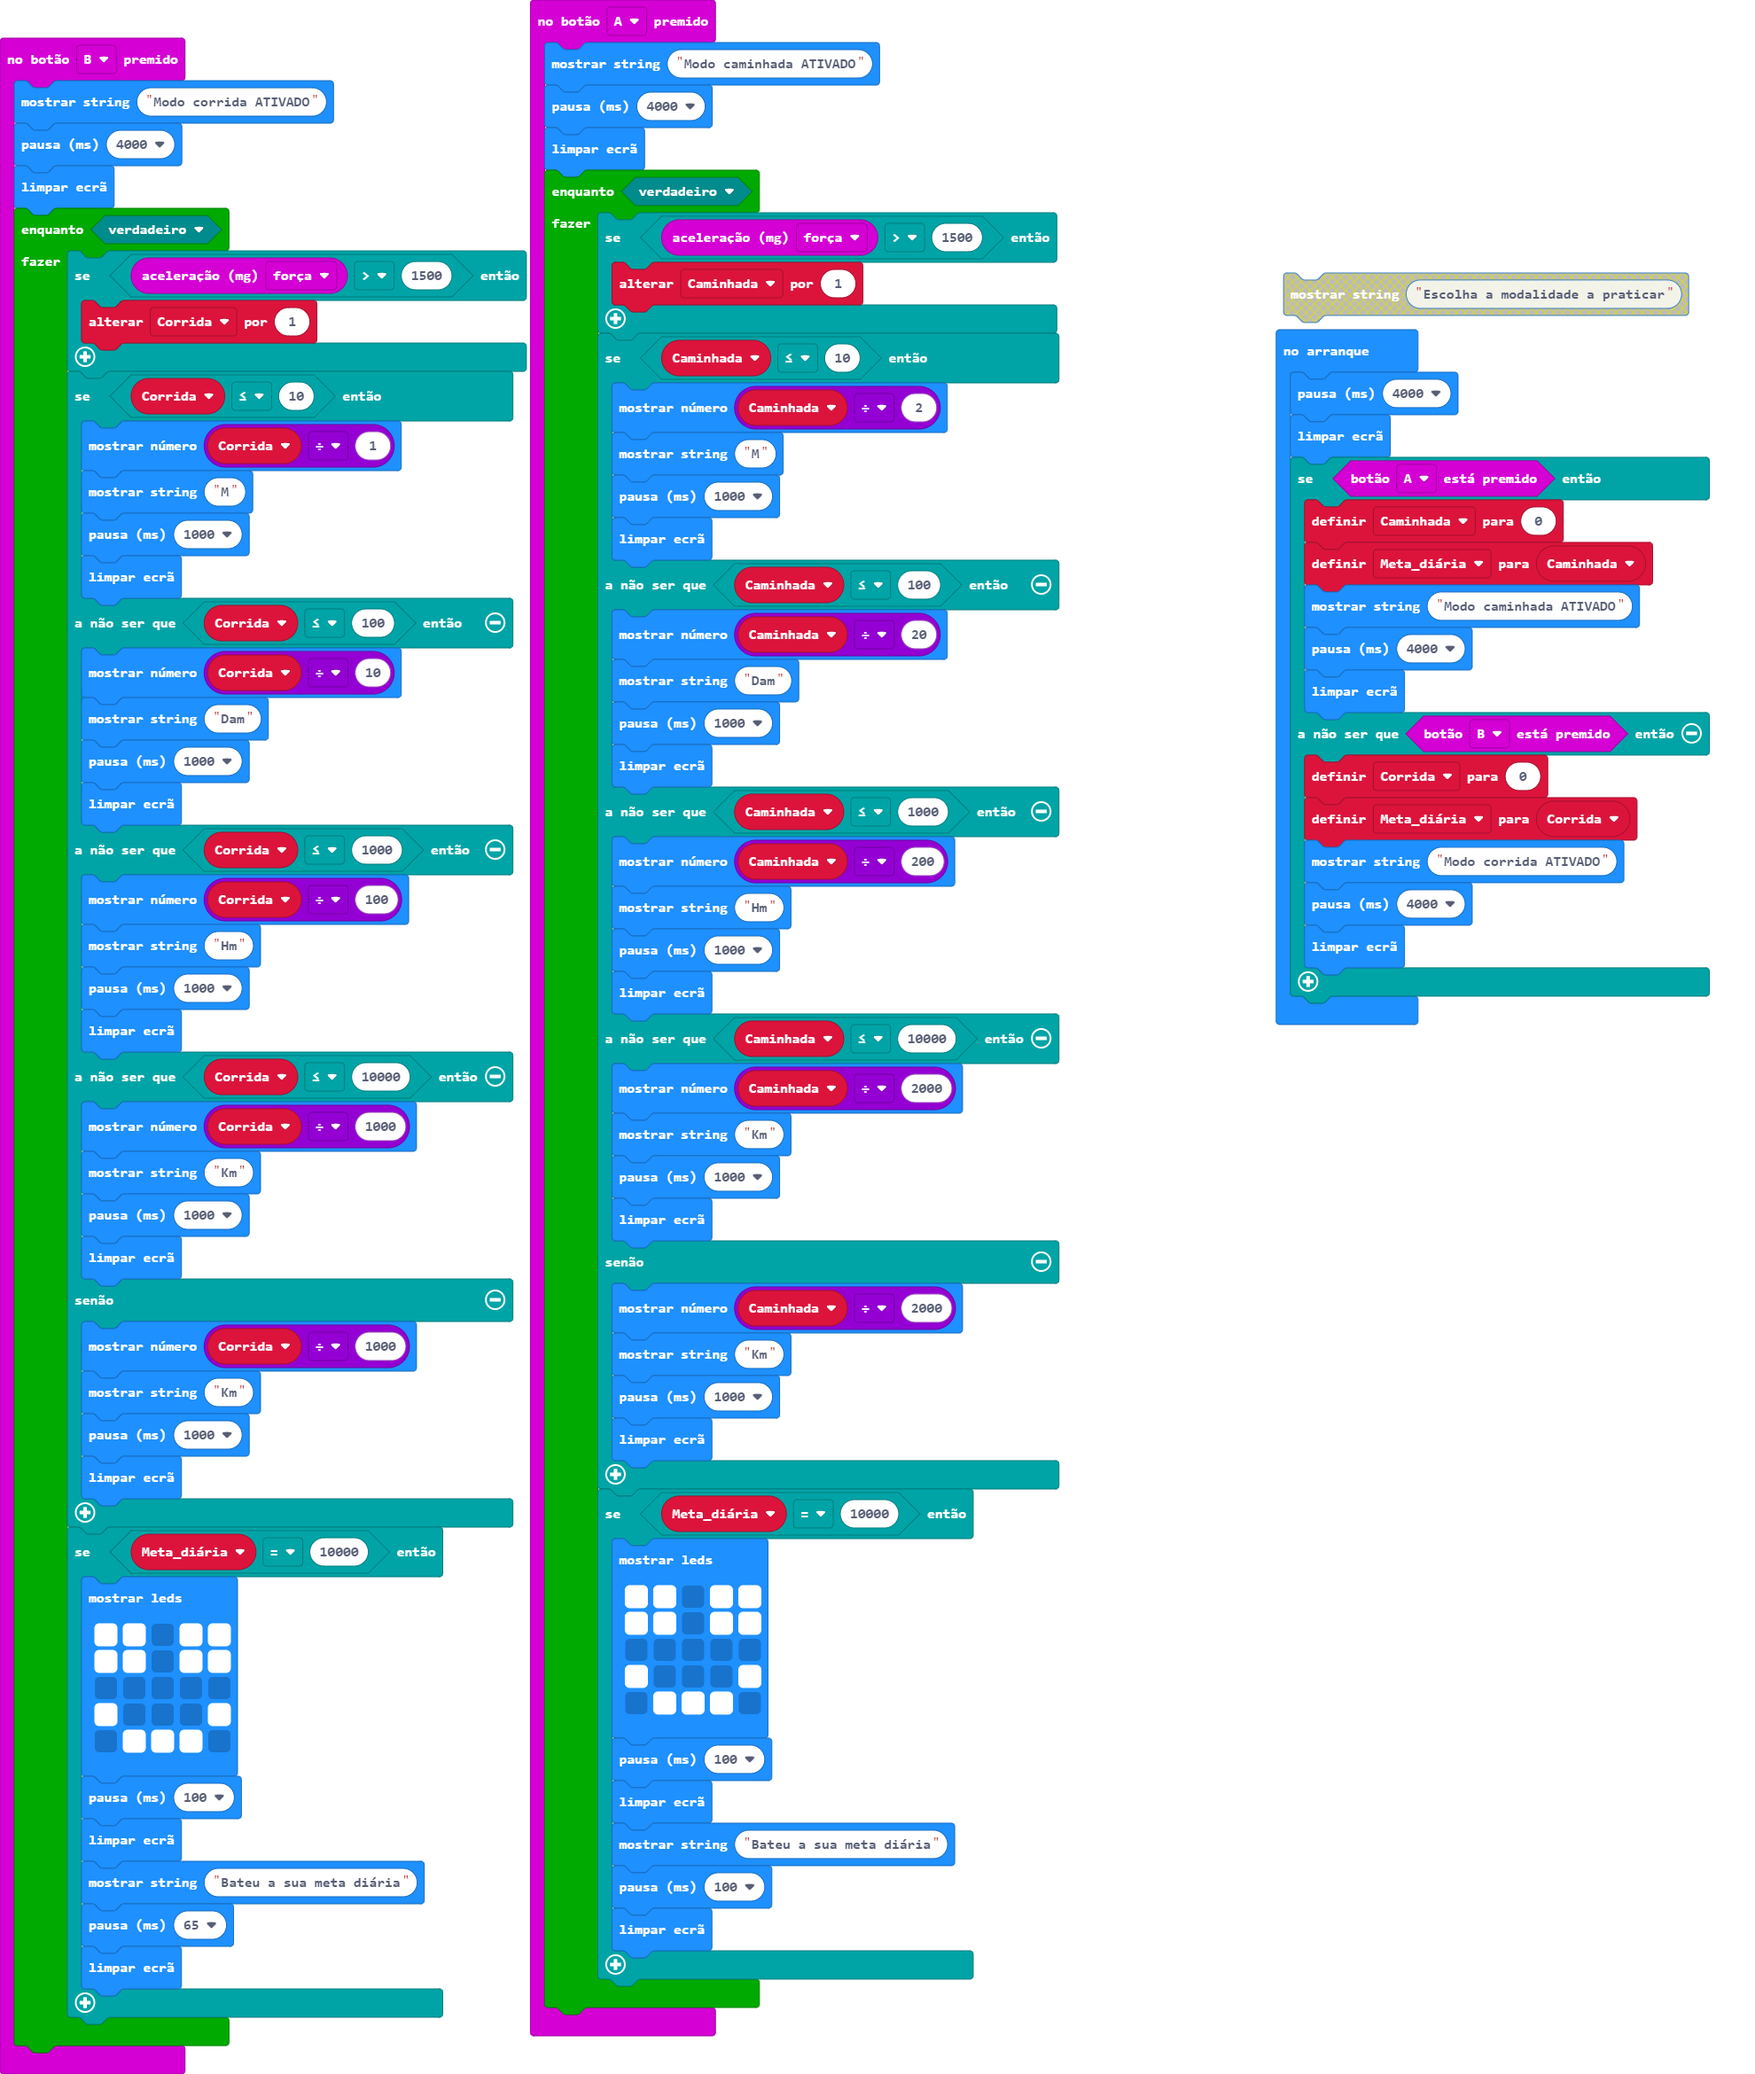
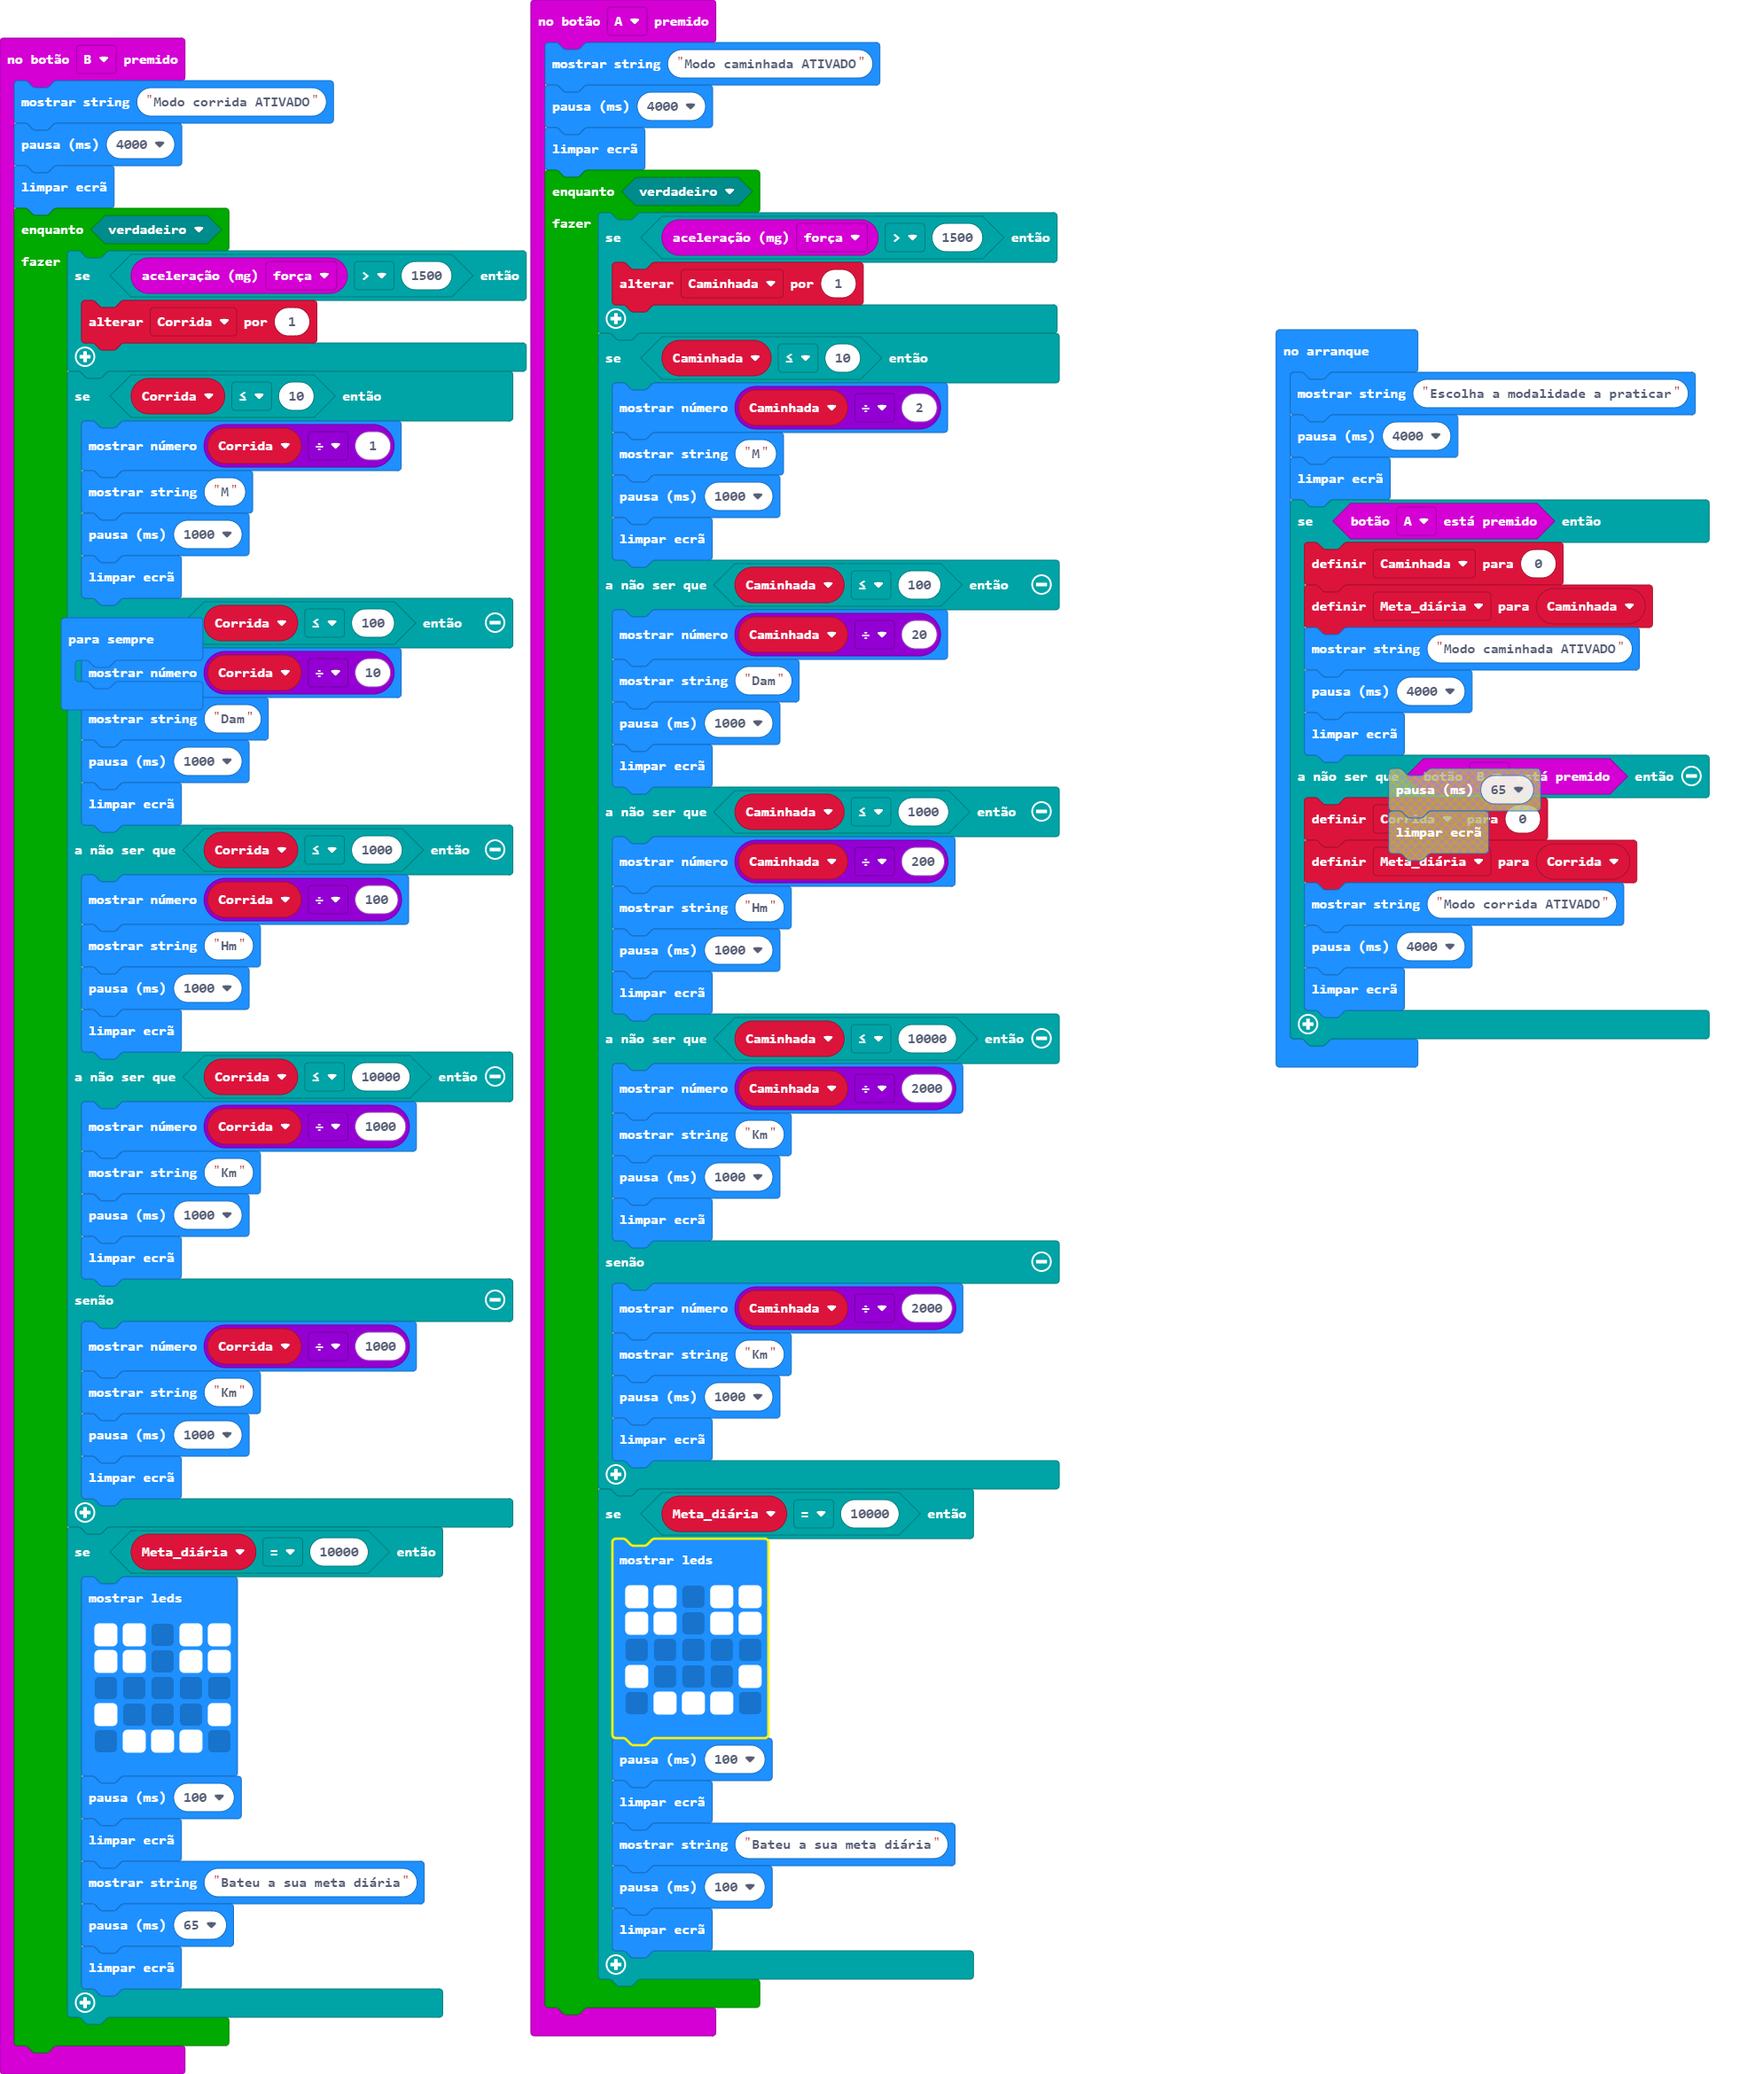
Update main.blocks, main.ts

diff --git a/main.ts b/main.ts
@@ -101,6 +101,7 @@ input.onButtonPressed(Button.B, function () {
 let Corrida = 0
 let Meta_diária = 0
 let Caminhada = 0
+basic.showString("Escolha a modalidade a praticar")
 basic.pause(4000)
 basic.clearScreen()
 if (input.buttonIsPressed(Button.A)) {
